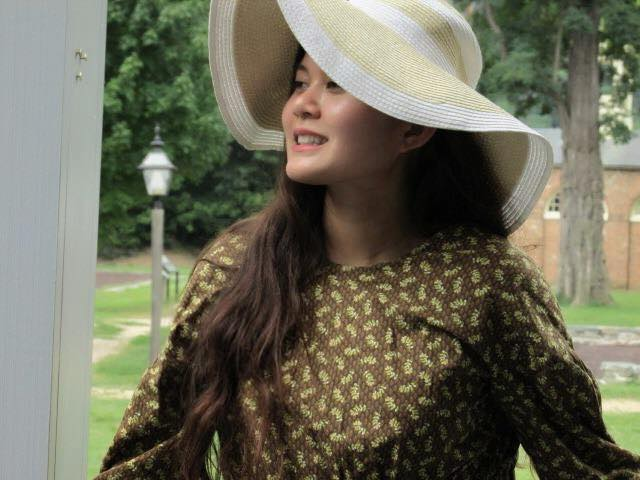
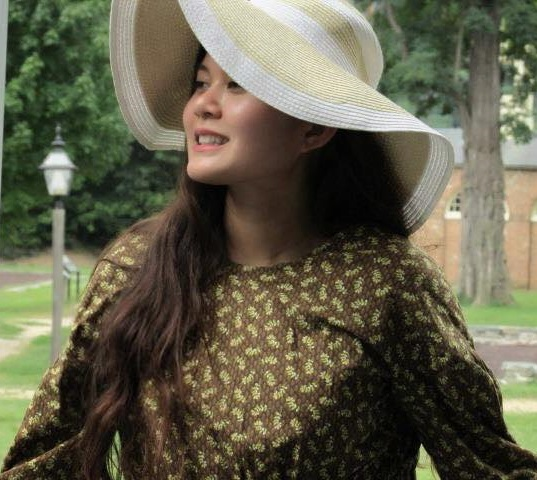
centered profile picture in index home page. added more styles into css, and added a new soriya picture

diff --git a/index.html b/index.html
@@ -63,12 +63,19 @@
             </div>
         </div>
     </div>
-    <div class="hero-section space-medium">
+    <div class="space-medium hero-section">
+        <style>
+            .myShadowPictureClass {
+               box-shadow: 0px 0px 8px #ffffff; 
+               -webkit-box-shadow: 0px 0px 8px #ffffff; 
+               -ms-box-shadow: 0px 0px 8px #ffffff;
+               -o-box-shadow: 0px 0px 8px #ffffff; 
+            }
+        </style>
         <div class="container">
             <div class="row">
-                <div class="col-lg-5 col-md-5 col-sm-12 col-xs-12">
-                  <img src="images/Soriya.jpg" alt="" class="img-responsive" width="400" height="425"/><br/>
-                  <img src="images/profile2.png" alt="" class="img-responsive" width="350" height="60"/>
+                <div class="col-lg-5 col-md-5 col-sm-12 col-xs-12"><br/><br/><br/>
+                  <img class = "myShadowPictureClass" src="images/Soriya.jpg" alt="" class="img-responsive" width="450"/>
                 </div>
                 <div class="col-lg-7 col-md-7 col-sm-12 col-xs-12">
                     <div class="well-block">
@@ -77,7 +84,6 @@
                         <p>Me, Soriya Kim Eath - a poet, activist, photographer and a very hardworking student ( I really am ) am a twenty-year-old pursuing a Bachelor degree in Social Work at George Mason University. I am both a full-time student and an employee for George Mason University, working as a Swim Instructor for the Aquatic and Fitness Center. In my spare time, I enjoy volunteering for a variety of organizations that advocate for individuals who are living in poverty.  </p>
                         <p>I started a non-profit photography service recently and am accepting donations to make better the lives of Cambodian children and the elderly who are living in poverty. I am planning to visit Cambodia during the winter break and take advantage of my stay there to distribute clothing and apparel, toys, school supplies, and much more to people in need.</p>
                         <p> I also enjoy going on adventures and sharing my fun to the world with the help of my camera. I enjoys the outdoors, especially the beach and have a deep love for nature. I am goofy and comedic and always try to make people laugh, HAHA.</p>
-                        <!--<a href="# " class="btn btn-default">View More About us</a> </div>-->
                 </div>
             </div>
         </div>

diff --git a/css/style.css b/css/style.css
@@ -253,7 +253,7 @@ label { }
 .text-white { color: #fff; }
 .primary-sidebar { }
 .secondary-sidebar { }
-.well-block{background-color: #fff;padding: 40px;}
+.well-block{background-color: #fff;padding: 40px; margin-bottom: 100px;}
 
 /*--------------------------------
 4.5 Features Block 
